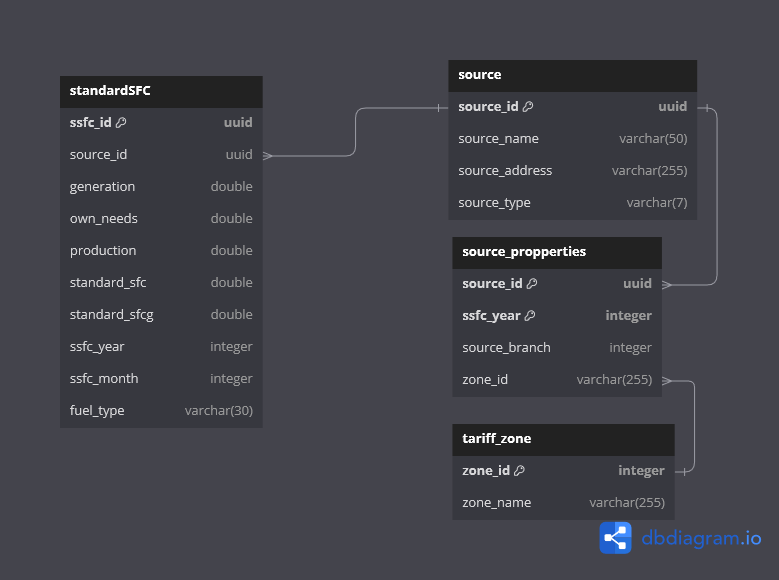
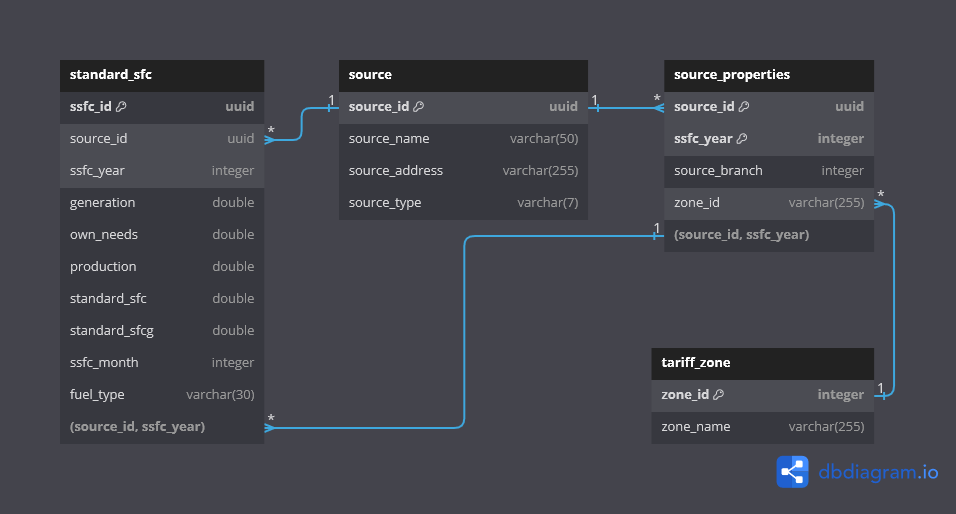
feat: modify model. In progress

diff --git a/src/main/java/ru/bk/j3000/normarchivedata/model/SrcPropertiesId.java b/src/main/java/ru/bk/j3000/normarchivedata/model/SrcPropertiesId.java
@@ -1,0 +1,45 @@
+package ru.bk.j3000.normarchivedata.model;
+
+import jakarta.persistence.Column;
+import jakarta.persistence.Embeddable;
+import lombok.AllArgsConstructor;
+import lombok.Getter;
+import lombok.NoArgsConstructor;
+import lombok.Setter;
+
+import java.io.Serializable;
+import java.util.UUID;
+
+@Embeddable
+@NoArgsConstructor
+@Getter
+@Setter
+@AllArgsConstructor
+public class SrcPropertiesId implements Serializable {
+
+    // источник
+    @Column(name = "source_id", nullable = false)
+    private UUID sourceId;
+
+    // год
+    @Column(name = "ssfc_year", nullable = false)
+    private Integer year;
+
+    @Override
+    public boolean equals(Object o) {
+        if (this == o) return true;
+        if (o == null || getClass() != o.getClass()) return false;
+
+        SrcPropertiesId that = (SrcPropertiesId) o;
+
+        if (!sourceId.equals(that.sourceId)) return false;
+        return year.equals(that.year);
+    }
+
+    @Override
+    public int hashCode() {
+        int result = sourceId.hashCode();
+        result = 31 * result + year.hashCode();
+        return result;
+    }
+}

diff --git a/src/main/java/ru/bk/j3000/normarchivedata/model/StandardSFC.java b/src/main/java/ru/bk/j3000/normarchivedata/model/StandardSFC.java
@@ -54,9 +54,13 @@ public class StandardSFC {
     @Column(name = "standard_sfcg", nullable = false)
     private Double ssfcg;
 
-    // год
-    @Column(name = "ssfc_year", nullable = false)
-    private Integer year;
+
+    @JoinColumns({
+            @JoinColumn(name = "source_id", referencedColumnName = "source_id", nullable = false),
+            @JoinColumn(name = "ssfc_year", referencedColumnName = "ssfc_year", nullable = false)
+    })
+    @ManyToOne(fetch = FetchType.EAGER)
+    private SourceProperties properties;
 
     // месяц
     @Column(name = "ssfc_month")

diff --git a/src/main/java/ru/bk/j3000/normarchivedata/model/SourceProperties.java b/src/main/java/ru/bk/j3000/normarchivedata/model/SourceProperties.java
@@ -10,14 +10,17 @@ import lombok.*;
 @AllArgsConstructor
 @ToString
 public class SourceProperties {
+    @EmbeddedId
+    private SrcPropertiesId id;
+
     // источник
-    @Id
+    @MapsId("sourceId")
     @JoinColumn(name = "source_id", nullable = false)
     @ManyToOne(fetch = FetchType.EAGER)
     private Source source;
 
     // год
-    @Id
+    @MapsId("year")
     @Column(name = "ssfc_year", nullable = false)
     private Integer year;
 
